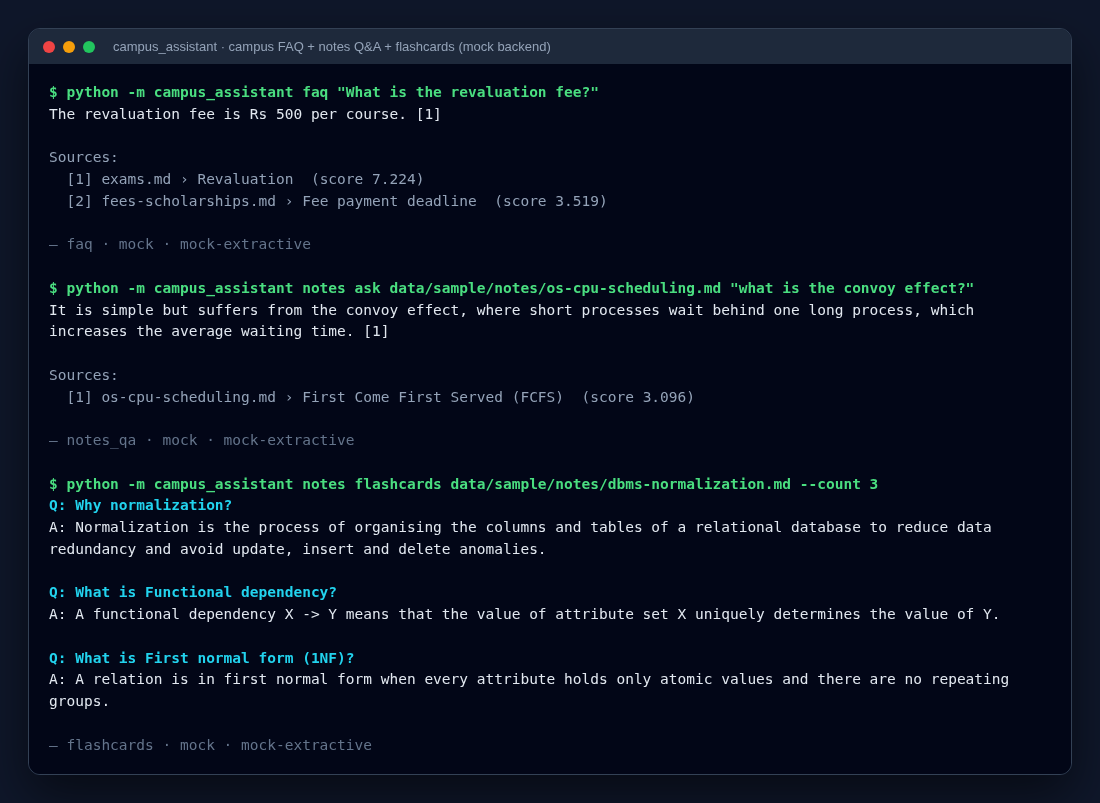
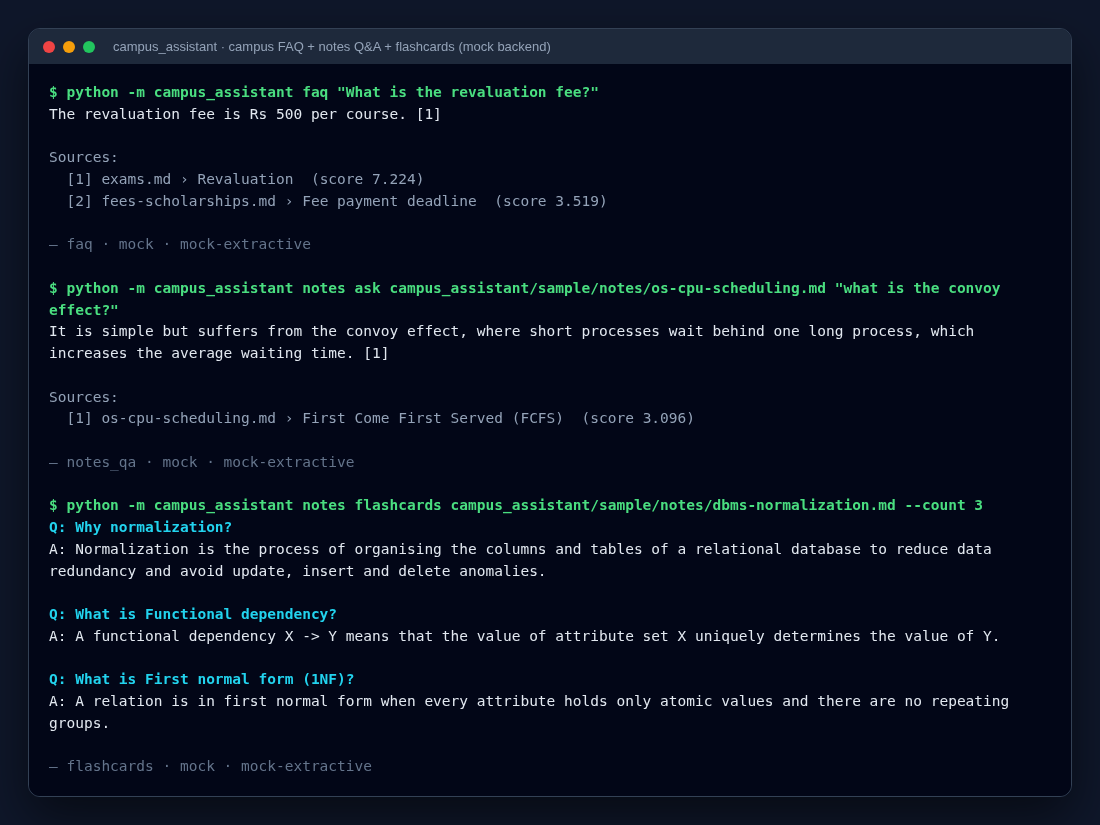
Ship sample college data inside the package so pip install works from any folder

diff --git a/campus_assistant/config.py b/campus_assistant/config.py
@@ -6,7 +6,7 @@ from dataclasses import dataclass, field
 from pathlib import Path
 
 PACKAGE_DIR = Path(__file__).resolve().parent
-SAMPLE_DIR = PACKAGE_DIR.parent / "data" / "sample"
+SAMPLE_DIR = PACKAGE_DIR / "sample"   # ships inside the package, so "pip install ." works too
 
 DEFAULT_MODEL = "gemini-4-hydrogen"        # free tier on the Gemini API (Nov 2026)
 FALLBACK_MODEL = "gemini-3.5-flash-lite"   # cheaper / higher free-tier daily limit

diff --git a/README.md b/README.md
@@ -108,7 +108,7 @@ python -m campus_assistant --now "2026-11-23 09:40" ask "next class"  # pretend 
 | Campus FAQ | `CAMPUS_FAQ_DIR` or `--faq-dir` | folder of `.md` / `.txt` files; use `##` headings per topic |
 | Notes | `CAMPUS_NOTES_DIR` or `--notes-dir` | folder of `.md` / `.txt` files |
 
-The samples in `data/sample/` are a made-up engineering college (B.Tech CSE, 5th semester). Replace
+The samples in `campus_assistant/sample/` are a made-up engineering college (B.Tech CSE, 5th semester). Replace
 them with your own handbook, hostel rules and timetable. In the web UI you can also load a timetable
 CSV and paste or open notes without touching any files.
 
@@ -132,7 +132,7 @@ campus_assistant/
   textutil.py    tokenizer, sentence splitter, markdown chunker, PII redaction
   usage.py       daily request cap
   web.py         Flask UI + JSON API     cli.py  command line     demo.py  offline tour
-data/sample/     timetable.csv, faq/*.md, notes/*.md
+  sample/      timetable.csv, faq/*.md, notes/*.md (demo college data, shipped with the package)
 tests/           223 pytest tests (no network)
 docs/            screenshots and sample outputs
 ```
